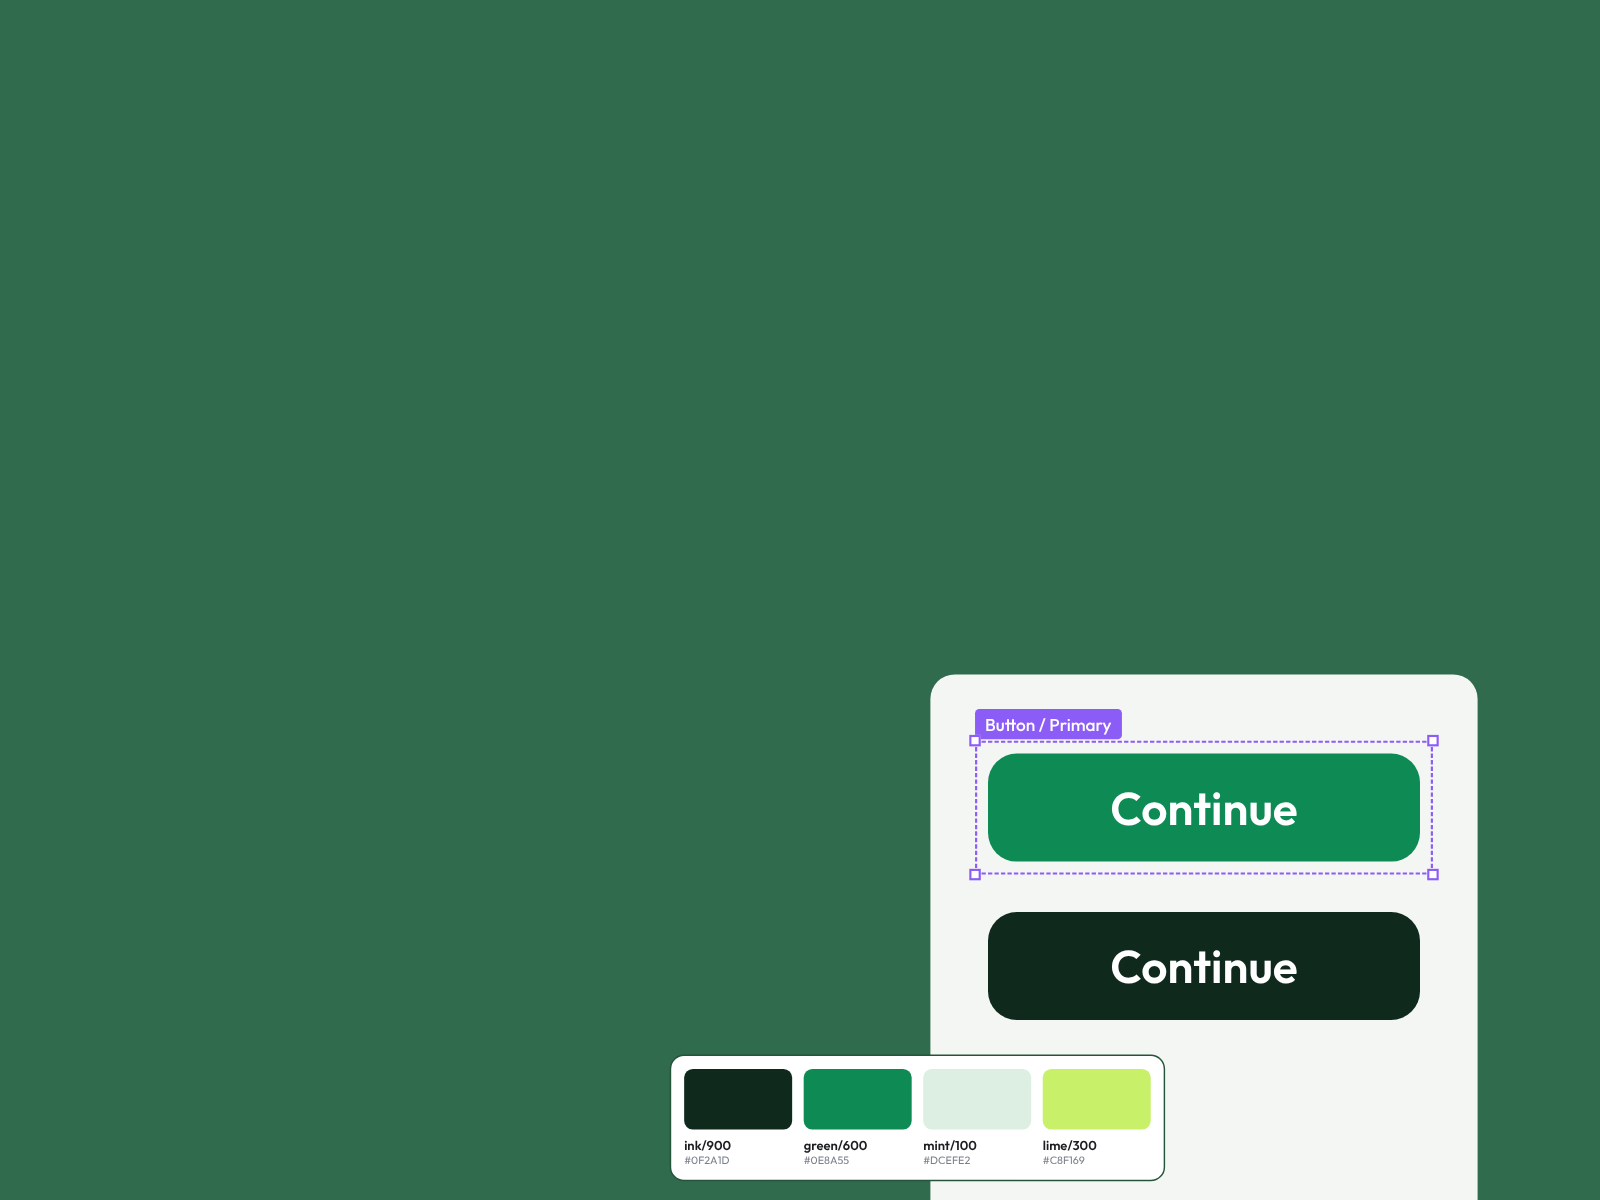
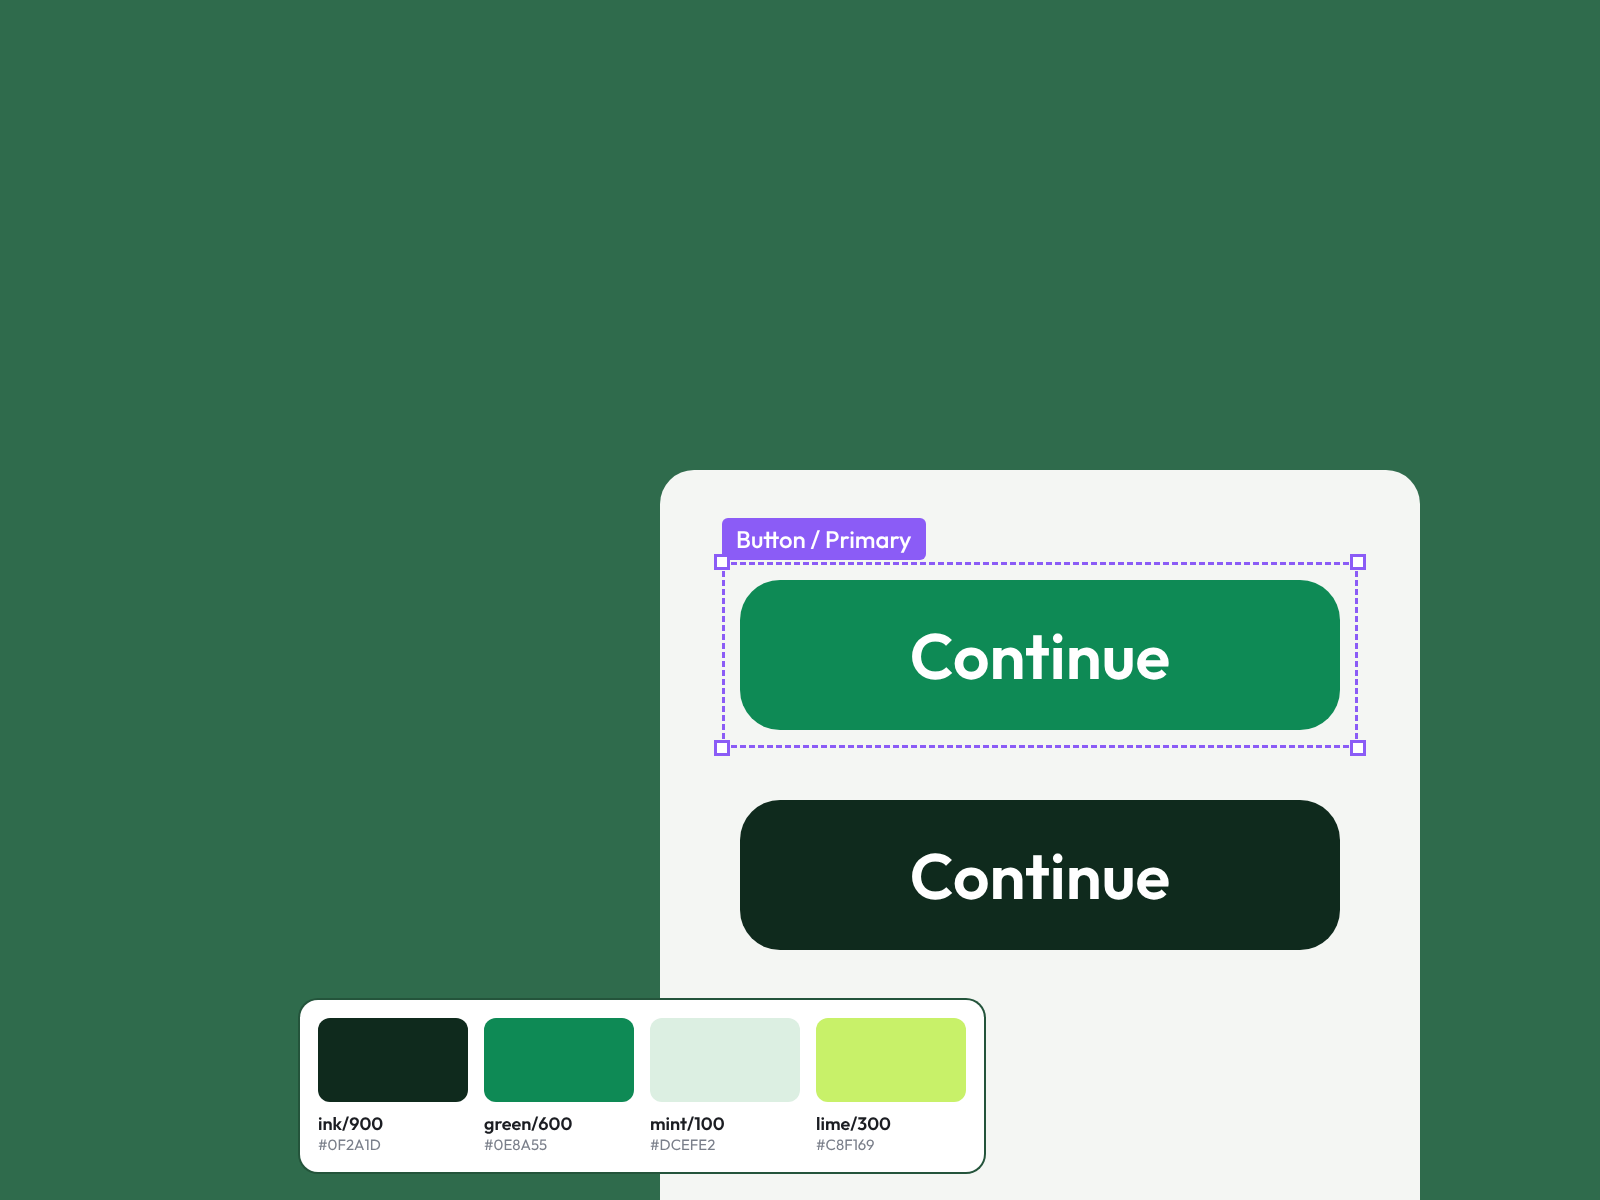
Tile skill: devices big under the text, no over-cropping; full-resolution tile tool
Claude-Session: https://claude.ai/code/session_011BdSE2fEeiEv9ZgoYmWAPn

Changed region(s): [[0.1875, 0.37, 0.9375, 1.0]]

diff --git a/design/tiles/screens/dsys.html b/design/tiles/screens/dsys.html
@@ -8,7 +8,7 @@ body{width:1600px;height:1200px;background:#2f6b4c;position:relative}
 .tag{position:absolute;left:62px;top:48px;background:#8b5cf6;color:#fff;font-size:24px;font-weight:500;padding:6px 14px;border-radius:6px}
 .sw{position:absolute;left:300px;top:1000px;display:flex;gap:16px;background:#fff;padding:18px;border-radius:18px;box-shadow:0 0 0 2px #24543b}
 .sw div{width:150px}.sw i{display:block;height:84px;border-radius:12px}.sw b{display:block;font-size:18px;font-weight:600;color:#1b1d22;margin-top:10px}.sw s{display:block;text-decoration:none;font-size:15px;color:#7a7f8a}
-</style><body><div id=wrap style="position:absolute;inset:0;transform:scale(.72) translate(10px,0);transform-origin:100% 100%">
+</style><body><div id=wrap style="position:absolute;inset:0">
 <div class=card><span class=tag>Button / Primary</span><div class=sel></div>
 <i class=h style="left:54px;top:84px"></i><i class=h style="left:690px;top:84px"></i><i class=h style="left:54px;top:270px"></i><i class=h style="left:690px;top:270px"></i>
 <div class="btn p">Continue</div><div class="btn s">Continue</div></div>

diff --git a/design/tiles/py/tile.py b/design/tiles/py/tile.py
@@ -1,0 +1,28 @@
+"""Compose a service tile at full resolution: crop the scene first, then put our screen on it.
+fill=(top, right): the screen's top edge lands at `top` of the tile height, its right edge at
+`right` of the width; the crop runs to the bottom of the scene. No blur anywhere."""
+import sys, os, numpy as np
+sys.path.insert(0, os.path.dirname(os.path.abspath(__file__)))
+from comp import place
+from quad import find_quad
+from PIL import Image, ImageDraw, ImageFilter
+OUT = (1600, 1200)
+def expand(q, px):
+    c = np.mean(q, 0); return [tuple(c + (np.array(p) - c) * (1 + px / np.linalg.norm(np.array(p) - c))) for p in q]
+def tile(scene, art, out, fill=(0.40, 0.90), radius=0, restore=95):
+    im = Image.open(scene).convert('RGB'); W, H = im.size; q, _ = find_quad(scene)
+    top, right = fill; sy = min(v[1] for v in q); sx = max(v[0] for v in q)
+    h = min(H, (H - sy) / (1 - top)); w = h * 4 / 3
+    if w > W: w = W; h = w * 3 / 4
+    y0 = H - h; x0 = min(max(0, sx - right * w), W - w)
+    k = OUT[0] / w
+    crop = im.crop((round(x0), round(y0), round(x0 + w), round(y0 + h))).resize(OUT, Image.LANCZOS)
+    crop = crop.filter(ImageFilter.UnsharpMask(1.4, 60, 2))
+    qq = [((x - x0) * k, (y - y0) * k) for x, y in q]
+    orig = np.array(crop).astype(float)
+    p = place(crop, Image.open(art).convert('RGBA'), expand(qq, 1.5 * k), radius=radius, glass=0.03, ss=2)
+    pa = np.array(p).astype(float)
+    m = Image.new('L', OUT, 0); ImageDraw.Draw(m).polygon([tuple(v) for v in expand(qq, 3 * k)], fill=255); m = np.array(m) > 0
+    sel = m & (orig.mean(2) < restore); pa[sel] = orig[sel]
+    Image.fromarray(np.clip(pa, 0, 255).astype('uint8')).save(out, quality=92)
+    print(out, 'scale', round(k, 2))

diff --git a/design/tiles/py/comp2.py b/design/tiles/py/comp2.py
@@ -6,7 +6,7 @@ from PIL import Image, ImageDraw, ImageFilter
 OUT=(1600,1200); TEXT=(0,0,960,450)
 def expand(q,px):
     c=np.mean(q,0); return [tuple(c+(np.array(p)-c)*(1+px/np.linalg.norm(np.array(p)-c))) for p in q]
-def build(scene, art, out, aspect=None, radius=0, anchor='top', xoff=None, padtop=0, flipit=False, restore=95):
+def build(scene, art, out, aspect=None, radius=0, anchor='top', xoff=None, padtop=0, flipit=False, restore=95, fill=None):
     im=Image.open(scene).convert('RGB'); q,_=find_quad(scene)
     if flipit:
         im=im.transpose(Image.FLIP_LEFT_RIGHT); W=im.width; tl,tr,br,bl=q; f=lambda p:(W-1-p[0],p[1]); q=[f(tr),f(tl),f(bl),f(br)]
@@ -32,6 +32,15 @@ def build(scene, art, out, aspect=None, radius=0, anchor='top', xoff=None, padto
         for i in range(20): t=i/20; full[padtop+i]=(full[padtop+i]*t+inp[padtop+i]*(1-t)).astype('uint8')
         p=Image.fromarray(full); q=[(x,y+padtop) for x,y in q]
     W,H=p.size
+    if fill:
+        # fill=(top, right): the screen's top edge lands at `top` of the tile height and its right
+        # edge at `right` of the width; the crop runs to the bottom of the scene. No blur, no padding.
+        top,right=fill; sy=min(v[1] for v in q); sx=max(v[0] for v in q)
+        h=int((H-sy)/(1-top)); h=min(h,H); w=int(h*4/3)
+        if w>W: w=W; h=int(w*3/4)
+        y0=H-h; x0=int(min(max(0,sx-right*w),W-w))
+        p.crop((x0,y0,x0+w,y0+h)).resize(OUT,Image.LANCZOS).save(out,quality=90)
+        print(out,'fill',x0,y0,w,h); return
     best=None
     for x0 in range(0,max(1,W-OUT[0])+1,10):
         for y0 in ([0] if H==OUT[1] else range(0,H-OUT[1]+1,10)):

diff --git a/.claude/skills/service-tiles/SKILL.md b/.claude/skills/service-tiles/SKILL.md
@@ -36,8 +36,10 @@ experiment on the live site. Mistakes cost the owner money and trust.
 ## 2. Composition (so the text never covers the device)
 
 - Tile file: 1600 × 1200 (4:3), JPEG.
-- **The device sits entirely in the bottom-right quarter.** The top half and the left
-  half are empty background. The empty area must be mid to dark so white text reads
+- **The device is big:** its top edge at about 33–38% of the height, filling the right
+  55–60% of the width down to the bottom edge (cropped by the bottom edge is fine, never
+  the screen). Above it and to its left: empty background. Do NOT ask for the device "in
+  the bottom-right quarter": that made devices tiny and left a big empty gap under the text. The empty area must be mid to dark so white text reads
   without any shade.
 - Desktop shows the full 4:3 image; text covers roughly the top-left 60% × 38%.
 - Phones (below 640px) show a taller crop (planned 4:5, anchored right and bottom), so
@@ -63,17 +65,24 @@ experiment on the live site. Mistakes cost the owner money and trust.
   > velvet armchair]. [DEVICE: an open space-grey laptop, screen facing [left/right] at a
   > three-quarter angle | a right hand holds the latest iPhone Pro (natural titanium frame,
   > very thin even black bezels, small pill-shaped Dynamic Island, no notch) upright].
-  > Composition rule: the [device] sits entirely in the bottom-right quarter of the frame;
-  > the whole top half and the whole left half are an empty, flat, evenly lit, matte
-  > [deep colour] [wall/surface]. The screen is completely blank, flat pure white, evenly
+  > Composition rule: the [device] is large: its top edge sits at one third of the frame
+  > height and it fills the right 55% of the frame width down to the bottom edge, with
+  > nothing in front of the screen; the top third and the left 45% of the frame are an
+  > empty, flat, evenly lit, matte [deep colour] [wall/surface]. The screen is completely blank, flat pure white, evenly
   > lit, no content, no reflections. No people's faces, no text, no logos.
 
-- Look at every downloaded scene before using it. If the device is too small, crop
-  tighter from the bottom right (zoom up to 1.3) while keeping the top ~40% empty.
+- Scenes come out 1280 × 720. Never crop in more than about 1.4× to enlarge a device: the
+  photo turns soft and blocky. Upscaling (Topaz) costs ~485 credits an image, more than a
+  new scene, so get the composition right in the prompt instead.
+- Nothing may sit in front of a screen (a chair arm across a laptop screen breaks the
+  screen overlay).
+- Look at every downloaded scene before using it.
 
 ## 4. Putting our screens on (no AI involved)
 
-- `design/tiles/py/comp2.py` → `build(scene, art, out, aspect=None, radius=0, xoff=None)`
+- `design/tiles/py/tile.py` → `tile(scene, art, out, fill=(top, right), radius=0)` crops the
+  scene first, then puts the screen on at full resolution (use this). Older:
+  `design/tiles/py/comp2.py` → `build(scene, art, out, aspect=None, radius=0, xoff=None)`
   finds the white screen, warps the design onto it in perspective, keeps the device's
   dark bezel on top, and crops 4:3. Phones: `radius=34`–`60` for screen corners.
 - No softening, no blur, no inpainting (the `padtop` option blurs; do not use it).
@@ -96,7 +105,8 @@ experiment on the live site. Mistakes cost the owner money and trust.
 ## 6. Mistakes already made (do not repeat)
 
 - Same layout for every tile; flat floating cards with cut text; empty charts.
-- Text running over phones and laptops; old notched phones; tiny devices.
+- Text running over phones and laptops; old notched phones; tiny devices; a big empty gap
+  between the text and the device; soft, over-enlarged photos.
 - On phones: a black box, then a blurred band, then a colour panel under the text. The
   owner wants none of these: one image, text on it.
 - Blur of any kind: image loading placeholders, frosted menus, out-of-focus scenes,
